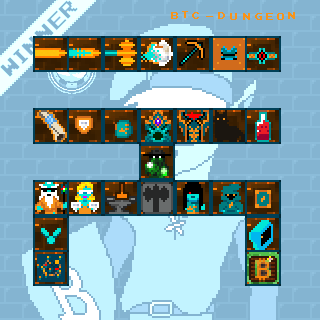
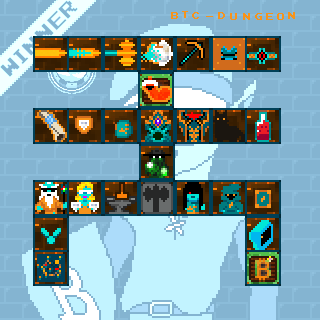
Added Cool ROI into the game! :)
Added Cool ROI into the game! :)

Changed region(s): [[0.4062, 0.2188, 0.5625, 0.3438]]

diff --git a/index.html b/index.html
@@ -1521,6 +1521,9 @@ soulOrbs: 0,
 soulStormCharges: 256, // Track how many charges we have (max 256)
 soulStormCharges: 256,
 currentWeapon: 'sword', // 'sword | soul_sword | satoshi_scourge | etc ..
+coolROI: 0,              // total Cool ROI collected
+farmROI: 0,              // Cool ROI currently placed in the active farm spot (0–∞)
+
 echoWardenBlessingGiven: false,
 
 farmLocked: false,
@@ -1939,6 +1942,10 @@ assets.cat.onerror = () => console.error('Failed to load black_cat.png');
 assets.swap = new Image();
 assets.swap.src = 'swap.png';
 assets.swap.onerror = () => console.error('Failed to load swap.png');
+
+assets.coolROI = new Image();
+assets.coolROI.src = 'Cool_ROI.png';
+assets.coolROI.onerror = () => console.error('Failed to load Cool_ROI.png');
 	
 Object.values(assets.runes).forEach(rune => {
     rune.onerror = () => console.error(`Failed to load rune asset: ${rune.src}`);
@@ -3390,15 +3397,35 @@ if (!inHideout && (floor === 1 || Math.random() < 0.20)) {
     } while (attempts < maxAttempts);
 }
 
-// 5% chance black cat spawn (once per floor) — NEVER in hideout and NEVER in puzzle rooms
-if (!inHideout && !inPuzzleRoom && currentTheme !== 'hideout' && Math.random() < 0.05) {
+// Cool ROI drop – 2.5% chance on any normal floor (not hideout or puzzle)
+if (!inHideout && !inPuzzleRoom && Math.random() < 0.025) {
     let attempts = 50;
     do {
         const x = Math.floor(Math.random() * W);
         const y = Math.floor(Math.random() * H);
-        if (map[y][x] === 0 && 
-            !(x === p.x && y === p.y) && 
-            Math.abs(x - p.x) > 3 && 
+        if (map[y][x] === 0 && !(x === p.x && y === p.y)) {
+            map[y][x] = 30; // new tile ID for Cool ROI
+            logBattleEvent(`Floor ${floor} - A magical Cool ROI bean appears!`);
+            break;
+        }
+        attempts--;
+    } while (attempts > 0);
+}
+
+// 5% chance black cat spawn (once per floor) — NEVER in hideout, puzzle rooms, or Glitch Zone
+if (!inHideout && 
+    !inPuzzleRoom && 
+    currentTheme !== 'hideout' && 
+    exit === null && 
+    puzzleStaticCanvas === null && 
+    Math.random() < 0.05) {
+    let attempts = 50;
+    do {
+        const x = Math.floor(Math.random() * W);
+        const y = Math.floor(Math.random() * H);
+        if (map[y][x] === 0 &&
+            !(x === p.x && y === p.y) &&
+            Math.abs(x - p.x) > 3 &&
             Math.abs(y - p.y) > 3) {
             map[y][x] = 28; // Cat tile
             catPos = {x, y};
@@ -3409,6 +3436,10 @@ if (!inHideout && !inPuzzleRoom && currentTheme !== 'hideout' && Math.random() <
         attempts--;
     } while (attempts > 0);
 }
+// Memory cleanup: clear old cat state on new floor to prevent carry-over
+catPos = null;
+catVisible = false;
+catAnimStart = 0;
 
 // Initialize dangerous areas array for spells
 dangerousAreas = [];
@@ -5438,49 +5469,84 @@ if (map[ny][nx] === 22 && !inHideout) { // Shrine tile
 
 if (map[ny][nx] === 27 && inPuzzleRoom && farmSpot && farmSpot.x === nx && farmSpot.y === ny) {
     const rawSats = Object.values(satsEarned).reduce((sum, v) => sum + v, 0);
-
-    if (!p.farmLocked) {
-        // PLANT: First time stepping on it
-        p.farmLockedSats = rawSats;
-        // ZERO OUT ALL CURRENT SATS
-        Object.keys(satsEarned).forEach(key => satsEarned[key] = 0);
-        updateSatsDisplay();
-
-        p.farmLocked = true;
-        p.farmLockedFloor = floor;
-
-        logBattleEvent(`Floor ${floor} - SATS planted! 2× in 50 floors.`);
-        playWebAudioSound(sounds.pickup);
-    }
-    else if (floor >= p.farmLockedFloor + 50) {
-        // HARVEST: Ready after 50 floors
-        const harvest = p.farmLockedSats * 2;
-        satsEarned.Farm = (satsEarned.Farm || 0) + harvest;
-
+if (!p.farmLocked) {
+    // Can only plant if player has at least 1 Cool ROI
+    if (p.coolROI < 1) {
         const floorIndicator = document.getElementById('floor-indicator');
-        floorIndicator.textContent = `Farm: HARVEST!`;
-        setTimeout(() => floorIndicator.textContent = `Floor ${floor}`, 2000);
-
-        logBattleEvent(`Floor ${floor} - HARVEST! +${harvest} sats (2×)`);
-        playWebAudioSound(sounds.pickup);
-        updateSatsDisplay();
-
-        // Reset farm
-        p.farmLocked = false;
-        p.farmLockedFloor = 0;
-        p.farmLockedSats = 0;
+        floorIndicator.textContent = `Farm: Need Cool ROI!`;
+        setTimeout(() => floorIndicator.textContent = `Floor ${floor}`, 3000);
+        logBattleEvent(`Floor ${floor} - Farm locked — find a Cool ROI first!`);
+        return;
     }
-    else {
-        // GROWING: Still waiting
-        const floorsLeft = p.farmLockedFloor + 50 - floor;
+
+    // PLANT: First visit – take half the sats, lock the rest
+    const halfSats = Math.floor(rawSats / 2);
+    p.farmLockedSats = halfSats;           // store the locked half
+    // Zero current sats and give player the other half immediately
+    Object.keys(satsEarned).forEach(key => satsEarned[key] = 0);
+    if (halfSats > 0) {
+        satsEarned.Farm = (satsEarned.Farm || 0) + halfSats;
+    }
+    updateSatsDisplay();
+    p.farmLocked = true;
+    p.farmLockedFloor = floor;
+    logBattleEvent(`Floor ${floor} - BTC planted! Half kept, half locked. Return later for 2× total.`);
+    playWebAudioSound(sounds.pickup);
+    // Graphics handled on room entry — no redraw here
+} else {
+    // REVISIT: Check if on a different floor than when planted
+    if (floor === p.farmLockedFloor) {
+        // Same floor → blocked
         const floorIndicator = document.getElementById('floor-indicator');
-        floorIndicator.textContent = `Farm: ${floorsLeft} floors left`;
-        setTimeout(() => floorIndicator.textContent = `Floor ${floor}`, 2000);
-
-        logBattleEvent(`Floor ${floor} - Growing... ${floorsLeft} floors left.`);
+        floorIndicator.textContent = `Farm: Come back later!`;
+        setTimeout(() => floorIndicator.textContent = `Floor ${floor}`, 3000);
+        logBattleEvent(`Floor ${floor} - Farm not ready yet — visit on a different floor.`);
+        return;
     }
 
+    // Different floor → mature and harvest
+    // Real fee: start at 49% with 1 Cool ROI, reduce 1% per Cool ROI, never below 25%
+    let feePercent = 49 - (p.coolROI - 1) * 1; // 49% at 1 ROI, 48% at 2, etc.
+    feePercent = Math.max(25, feePercent); // cap at minimum 25%
+    const multiplier = (100 - feePercent) / 100; // e.g., 25% fee → 0.75x harvest
+    const harvest = Math.floor(p.farmLockedSats * 2 * multiplier);
+    satsEarned.Farm = (satsEarned.Farm || 0) + harvest;
+    const floorIndicator = document.getElementById('floor-indicator');
+    // Show ROI: BTC if ≥ 100,000 sats (0.001 BTC), else sats
+    const btc = harvest / 100000000;
+    const displayText = harvest >= 100000 ? `ROI: ${btc.toFixed(3)} BTC` : `ROI: ${harvest} sats`;
+    floorIndicator.textContent = displayText;
+    setTimeout(() => floorIndicator.textContent = `Floor ${floor}`, 3000);
+    logBattleEvent(`Floor ${floor} - Farm matured! +${harvest} sats (fee ${feePercent}%)`);
+    playWebAudioSound(sounds.pickup);
+    updateSatsDisplay();
+
+    // Immediately switch matured farmSpot2 → empty farmSpot1 (dirt) in real-time
+    if (puzzleStaticCtx) {
+        puzzleStaticCtx.drawImage(assets.farmSpot1, nx * S, ny * S, S, S);
+    }
+
+    // Reset farm state
+    p.farmLocked = false;
+    p.farmLockedFloor = 0;
+    p.farmLockedSats = 0;
+    p.farmROI = 0;
+}
     // Allow player to stand on the tile
+    return;
+}
+
+// Cool ROI pickup
+if (map[ny][nx] === 30) {
+    p.coolROI++;
+    map[ny][nx] = 0;
+    playWebAudioSound(sounds.pickup);
+    logBattleEvent(`Floor ${floor} - Cool ROI collected! (${p.coolROI} total)`);
+    // If we have an active farm, automatically place one if possible
+    if (p.farmLocked && p.farmROI === undefined) p.farmROI = 0; // init if needed
+    if (p.farmLocked) p.farmROI++;
+    updatePlayerState();
+    needsRedraw = true;
     return;
 }
 
@@ -5612,7 +5678,7 @@ if (map[ny][nx] === 18 && inHideout) { // Hooded Heirloom
             }
         }
 
-// Puzzle: Collect heart framers
+// Puzzle: Collect Heart Keys
 if (inPuzzleRoom) {
     const heartIndex = puzzleHeartFramers.findIndex(h => h.x === p.x && h.y === p.y);
     if (heartIndex !== -1) {
@@ -5622,7 +5688,7 @@ if (inPuzzleRoom) {
         const totalHearts = puzzleHeartFramers.length + 1; // +1 because we just picked one up
         const collected = totalHearts - puzzleHeartFramers.length;
 
-        logBattleEvent(`Heart Framer ${collected}/${totalHearts} collected!`);
+        logBattleEvent(`Heart Key ${collected}/${totalHearts} collected!`);
         needsRedraw = true;
     }
 
@@ -7805,6 +7871,9 @@ checkRunewords();
     addTerminalLineToContent(`Soul Shards: ${p.soulShards}`);
     addTerminalLineToContent(`Soul Orbs: ${p.soulOrbs}`);
     addTerminalLineToContent(`Soul Storm Charges: ${p.soulStormCharges}/256`);
+let fee = p.coolROI > 0 ? 49 - (p.coolROI - 1) * 1 : 50; // 49% at 1 ROI, 50% if none
+fee = Math.max(25, fee); // cap at minimum 25%
+addTerminalLineToContent(`Farm Spot Fee: ${fee}%`);
     addTerminalLineToContent('');
 
     // Display regular inventory items
@@ -8112,10 +8181,11 @@ case 'reset':
             if (map[y][x] === 1) puzzleStaticCtx.drawImage(assets.themes.dungeon.wall, x*S, y*S, S, S);
             if (map[y][x] === 6) puzzleStaticCtx.drawImage(assets.themes.hell.special, x*S, y*S, S, S);
             if (map[y][x] === 19) puzzleStaticCtx.drawImage(assets.soul_stash, x*S, y*S, S, S);
-            if (map[y][x] === 27) {
-                const img = (p.farmLocked && floor >= p.farmLockedFloor + 50) ? assets.farmSpot2 : assets.farmSpot1;
-                puzzleStaticCtx.drawImage(img, x*S, y*S, S, S);
-            }
+if (map[y][x] === 27) {
+    // Choose farm spot image based on farm state
+    const img = p.farmLocked && floor > p.farmLockedFloor ? assets.farmSpot2 : assets.farmSpot1;
+    puzzleStaticCtx.drawImage(img, x * S, y * S, S, S);
+}
         }
     }
 
@@ -8743,11 +8813,21 @@ for (let y = 0; y < H; y++) {
         if (map[y][x] === 1) puzzleStaticCtx.drawImage(assets.themes.dungeon.wall, x*S, y*S, S, S);
         if (map[y][x] === 6) puzzleStaticCtx.drawImage(assets.themes.hell.special, x*S, y*S, S, S);
         if (map[y][x] === 19) puzzleStaticCtx.drawImage(assets.soul_stash, x*S, y*S, S, S);
-        if (map[y][x] === 27) {
-            // Use farmSpot2 if mature, else farmSpot1
-            const img = (p.farmLocked && floor >= p.farmLockedFloor + 50) ? assets.farmSpot2 : assets.farmSpot1;
-            puzzleStaticCtx.drawImage(img, x*S, y*S, S, S);
+if (map[y][x] === 27) {
+    let img = assets.farmSpot1; // default: empty dirt
+
+    if (p.farmLocked) {
+        // Farm is still active (waiting for harvest)
+        // Show matured version ONLY while waiting on a later floor
+        if (floor > p.farmLockedFloor) {
+            img = assets.farmSpot2;
         }
+        // else: still on planting floor → show farmSpot1 (just planted)
+    }
+    // If not locked → already harvested → stay farmSpot1 (empty)
+
+    puzzleStaticCtx.drawImage(img, x * S, y * S, S, S);
+}
     }
 }
 
@@ -8774,6 +8854,10 @@ for (let y = 0; y < H; y++) {
 }
 
 function finishPuzzleRoom() {
+// Force clear cat in Glitch Zone transition
+catPos = null;
+catVisible = false;
+catAnimStart = 0;
     logBattleEvent("The ancient chest opens... power surges through you!");
     if (wisps.length > 0) wispSpeak('victory');
 
@@ -9617,6 +9701,9 @@ if (map[y][x] === 25) { // Puzzle portal tile
         if (map[y][x] === 29) { // Swap tile
             c.drawImage(assets.swap, x * S, y * S, S, S);
         }
+        if (map[y][x] === 30) {
+            c.drawImage(assets.coolROI, x * S, y * S, S, S);
+        }
 
 // ───── PUZZLE ROOM – FINAL FIXES: FLOOR REVEAL + BOULDER TRAILS + ZOOM-CENTERED REVEAL ─────
 if (inPuzzleRoom && puzzleStaticCanvas) {
@@ -9634,7 +9721,7 @@ if (inPuzzleRoom && puzzleStaticCanvas) {
     // Boulders
     puzzleBoulders.forEach(b => c.drawImage(assets.boulder, b.x * S, b.y * S, S, S));
 
-    // Heart framers (pulsing)
+    // Heart Key (pulsing)
     puzzleHeartFramers.forEach((h, i) => {
         const pulse = 0.9 + 0.1 * Math.sin(performance.now() / 250 + i * 0.3);
         c.globalAlpha = pulse;
@@ -9810,11 +9897,6 @@ for (let y = 0; y < H; y++) {
         if (map[y][x] === 22 && isVisible) { // Shrine tile
             c.drawImage(assets.shrine, x * S, y * S, S, S);
             needsRedraw = true; // Add this to ensure proper redraw after shrine drawing
-        }
-        
-        if (map[y][x] === 27 && farmSpot && farmSpot.x === x && farmSpot.y === y && isVisible) {
-            const mature = p.farmLocked && floor >= p.farmLockedFloor + 50;
-            c.drawImage(mature ? assets.farmSpot2 : assets.farmSpot1, x * S, y * S, S, S);
         }
     }
 }
